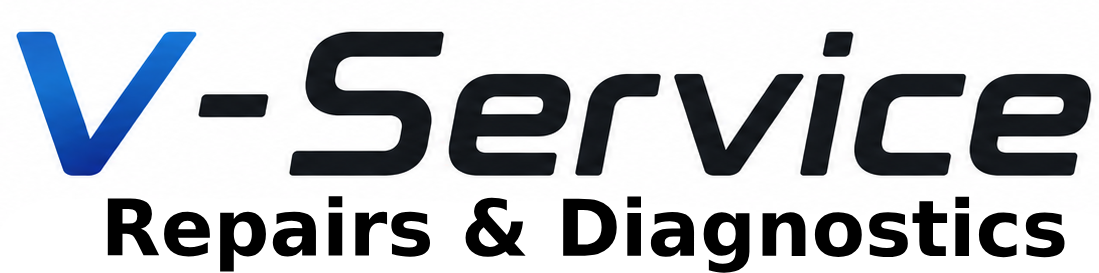
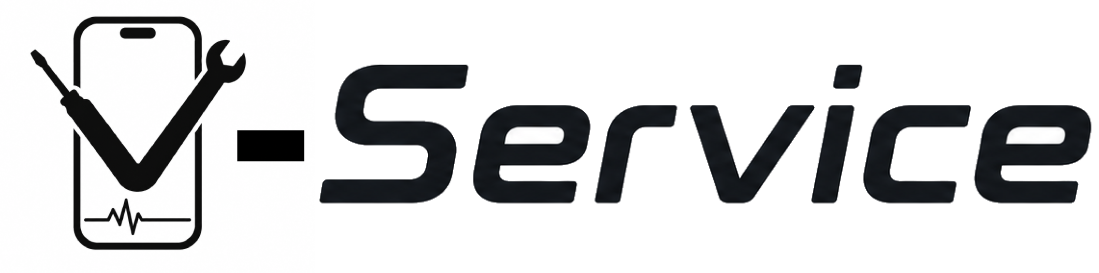
refactor: swap Customer and Date label positions in HorizontalLabel layout

diff --git a/Labels/HorizontalLabel.cs b/Labels/HorizontalLabel.cs
@@ -450,7 +450,7 @@ namespace Dyagnoz_Latest
             PlaceCell(this.lblSIM, divX + 1f, tableY + rowH * 3, col2W, rowH);
  
             // ── Footer row ────────────────────────────────────────────────────────────
-            PlaceCell(this.lblDate, tableX, footerY, colAW, footerRowH);
+            PlaceCell(this.lblCust, tableX, footerY, colAW, footerRowH);
  
             this.lblTester = new XRLabel();
             this.lblTester.Font = new Font("Tahoma", 6.5f, FontStyle.Bold);
@@ -462,8 +462,8 @@ namespace Dyagnoz_Latest
             this.lblTester.BackColor = Color.Transparent;
             ((XRControl)this.Detail).Controls.Add(this.lblTester);
  
-            PlaceCell(this.lblCust, divBX + 1f, footerY, colCW, footerRowH, (TextAlignment)16);
-            this.lblCust.Font = new Font("Tahoma", 6.5f, FontStyle.Bold);
+            PlaceCell(this.lblDate, divBX + 1f, footerY, colCW, footerRowH, (TextAlignment)16);
+            this.lblDate.Font = new Font("Tahoma", 6.5f, FontStyle.Bold);
  
             // ── Below-table strip: Notes — now merged ─────────────────────
             float notesY = footerY + footerRowH;